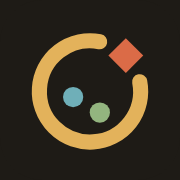
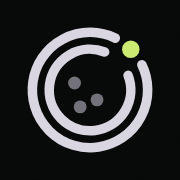
Brand: new mark, wordmark in Inter Tight

Changed region(s): [[0.1389, 0.1389, 0.8611, 0.8611]]

diff --git a/docs/index.html b/docs/index.html
@@ -245,7 +245,7 @@
     <a class="tlink" href="https://github.com/bottercode/corral#readme">Docs</a>
   </nav>
   <a class="brand" href="./" aria-label="corral home">
-    <img src="brand/logo-dark.svg" alt="corral" width="89" height="26">
+    <img src="brand/logo-dark.svg" alt="corral" width="79" height="26">
   </a>
   <div class="end">
     <a class="tlink" href="https://github.com/bottercode/corral">GitHub</a>
